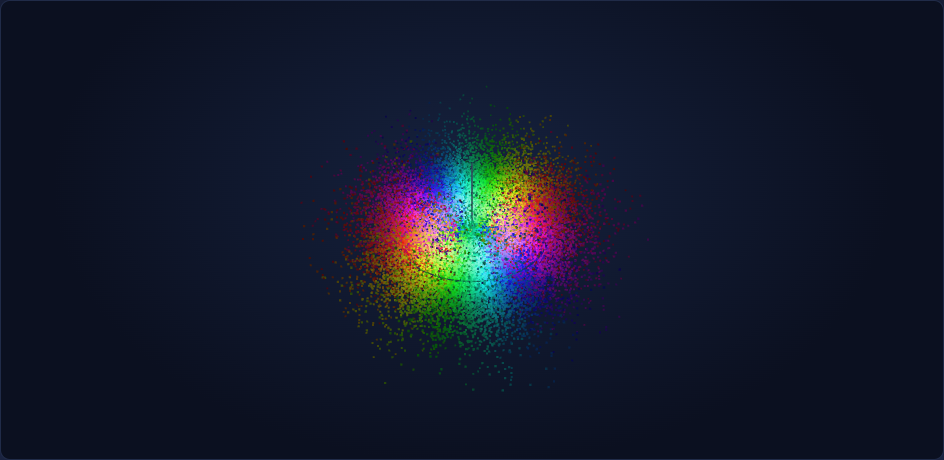
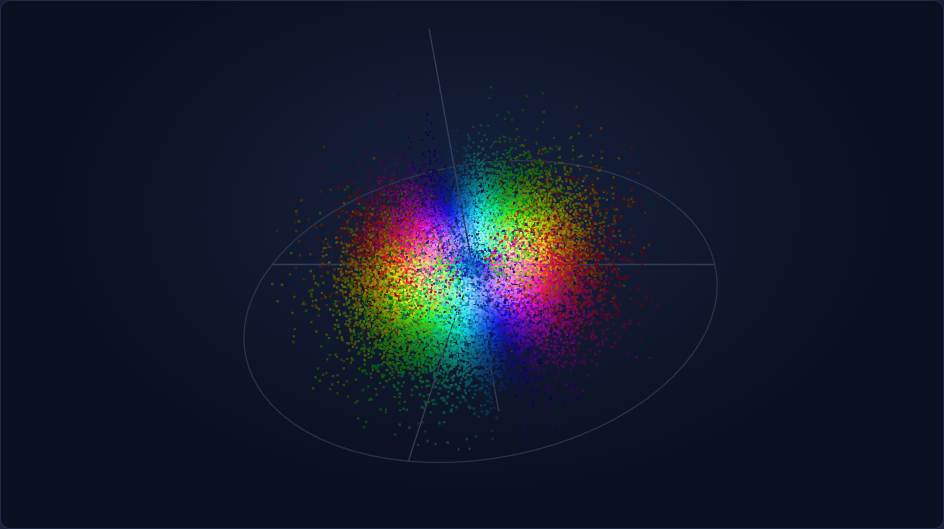
docs: 同步 README 与预览图（判据切换、四元数交互、等值面精度说明）

Changed region(s): [[0.3072, 0.2435, 0.6758, 0.7913]]

diff --git a/H5/README.md b/H5/README.md
@@ -4,10 +4,13 @@
 
 ## ✨ 功能特性
 
-- **量子数控制**：滑块调节主量子数 `n`（1–6）、角量子数 `l`、磁量子数 `m`，实时联动（l 上限随 n、m 范围随 l 自动收窄）。
-- **三维轨道**：按概率密度 `|ψ|²` 实时生成
-  - **粒子云**：按 `|ψ|²` 重要性采样数万个点，统计上即真实电子分布；复模式下按相位着色，直观呈现相位缠绕。
-  - **等值面**：在网格上走四面体行进（marching tetrahedra）提取 `|ψ|² = 常数` 的实体表面，阈值可调；经顶点焊接 + Taubin 平滑 + 一致朝外绕向处理，表面光滑。
+- **量子数控制**：滑块与**数字输入框**双通道调节主量子数 `n`（1–6）、角量子数 `l`、磁量子数 `m`，实时联动（l 上限随 n、m 范围随 l 自动收窄）；输入框会校验类型与范围，非法值标红提示且不改变状态。
+- **三维轨道**：按概率密度 `|ψ|²` 实时生成（**默认等值面**，可切粒子云）
+  - **粒子云**：按 `|ψ|²` 重要性采样数万个点，统计上即真实电子分布。
+  - **等值面**：在网格上走四面体行进（marching tetrahedra）提取等值面，**判据可切换 `|ψ|` / `|ψ|²`**，阈值可调；经顶点焊接 + Taubin 平滑 + 一致朝外绕向处理，表面光滑。
+    > `|ψ| = c` 与 `|ψ|² = c²` 是同一族曲面，故切换判据**改变的是读数的含义而非形状**：同一读数 `f`，按 `|ψ|²` 计为 `f·|ψ|²max`，按 `|ψ|` 计等价于 `f²·|ψ|²max`（`f<1` 时更小）→ 得到**更大**的表面。面板会实时显示两者的换算，如 `30.0% |ψ|² ⟺ 54.8% |ψ|`。
+  - 网格范围随阈值自适应（收紧到等值面实际外延，而非波函数渐近尾部），同分辨率下格距可细数倍——这是分辨 p 轨道节面附近两瓣窄缝的关键。
+  - **三维着色**：粒子云与等值面共用同一套配色 —— **相位色**（实函数 → ±红/青正负瓣，复函数 → 彩虹相位缠绕）/ **轨道色**（按 s/p/d/f 支壳层着色）。
 - **实函数 / 复函数** 双模式：
   - 实球谐 → 经典"瓣状"轨道（pz、px、dxy、dz²…）。
   - 复球谐 → 密度绕 z 轴对称的"环/锥面"，并按相位（arg ψ）彩虹着色。
@@ -16,7 +19,9 @@
   - 角度分布：以 (θ, φ) 为自变量、**自原点沿该方向引射线、长度为 `|Y|` 或 `|Y|²` 的三维曲面**，可拖拽旋转；实函数按符号分色，复函数按相位着色。
   - 截面密度：`xy / xz / yz` 平面，三种模式 —— **密度着色** / **相位着色** / **无填色等高线**（8 层对数间距、数值标注在线上、白线标出节面 ψ=0）；恰为节点面时提示"本平面为节点面"。
 - **公式展示**：KaTeX 实时渲染当前波函数的数学表达式（代入具体 n/l/m 与归一化系数），且 `P_l^m(cosθ)` **展开为显式多项式**（如 `P_1^1 = -sinθ`）。
-- **交互**：拖拽旋转、滚轮/双指缩放、自动旋转、复位；桌面 / 平板 / 手机响应式自适配。
+- **交互**：拖拽旋转、滚轮/双指缩放、右键（或 Shift+拖）平移、自动旋转、复位；桌面 / 平板 / 手机响应式自适配。
+  - 旋转由**自研四元数轨道控制器**驱动：偏航绕**相机自身 Y（屏幕竖直）**、俯仰绕**相机自身 X（屏幕水平）**，均为相机局部系四元数相乘，不经过欧拉角，**从原理上避免万向节锁**，且允许自由翻滚（无极点限位）。
+    > 偏航刻意**不用世界 Z 轴**：若用世界 Z，当视线俯到极点附近时世界 Z 与视线重合，"左右拖"会退化成绕视线的滚转，用户会感觉方向反了；改用局部 Y 后，任何朝向下左右拖都绕屏幕竖直轴转，方向始终一致。
 
 ## 🚀 如何运行
 
@@ -41,7 +46,6 @@ H5/
 ├── README.md
 ├── libs/               # 本地化依赖（离线必需）
 │   ├── three.min.js         # Three.js r147 全局构建
-│   ├── OrbitControls.js     # r147 非模块控制器
 │   ├── katex.min.css/js     # 公式渲染
 │   └── fonts/               # KaTeX woff2 字库
 ├── css/
@@ -67,7 +71,8 @@ H5/
 | 决策 | 原因 |
 |---|---|
 | 纯 JS 手写数学（弃 NumPy/Pyodide） | 移动端秒开；波函数所需数学仅需少量递推，精确且轻量 |
-| Three.js r147 全局构建 | r148 起非模块 OrbitControls 被移除；全局构建可在 `file://` 双击运行（ES Module 在 file:// 有 CORS 限制） |
+| Three.js r147 全局构建 | r148 起非模块 `OrbitControls` 被移除，且新版为 ES Module（`file://` 下被 CORS 拦截）；全局构建可双击离线运行 |
+| **自研四元数轨道控制器**（不用 `OrbitControls`） | `OrbitControls` 用球坐标 + up 向量描述朝向，视线与 up 平行时存在万向节锁；改为四元数累积旋转（偏航绕世界 Z、俯仰绕相机局部 X），全程不经欧拉角，无奇异点，另加 ±Z 极点软限位防止翻过头 |
 | 等值面用 marching **tetrahedra**（非 cubes） | 免去 256×16 巨型查找表，规则简单、必定正确；三角形略多，用较高网格分辨率补偿 |
 | 2D 图表手绘 Canvas | 三种图表形态各异，手绘控制力强、零依赖、与暗色主题统一 |
 

diff --git a/README.md b/README.md
@@ -17,14 +17,20 @@
 
 ## ✨ 功能特性
 
-**量子数实时联动**：滑块调节主量子数 `n`（1–6）、角量子数 `l`、磁量子数 `m`，`l` 上限随 `n`、`m` 范围随 `l` 自动收窄。
+**量子数实时联动**：滑块与**数字输入框**双通道调节主量子数 `n`（1–6）、角量子数 `l`、磁量子数 `m`，`l` 上限随 `n`、`m` 范围随 `l` 自动收窄；输入框校验类型与范围，非法值标红且不改变状态。
 
-**三维轨道渲染** — 按概率密度 `|ψ|²` 实时生成，两种方式可切换：
+**三维轨道渲染** — 按概率密度 `|ψ|²` 实时生成（**默认等值面**，可切粒子云）：
 
 | 方式 | 说明 |
 |---|---|
 | **粒子云** | 按 `|ψ|²` 重要性采样数万个点，统计上即真实电子分布 |
-| **等值面** | 在网格上以*四面体行进*提取 `|ψ|² = 常数` 的实体表面，阈值可调 |
+| **等值面** | 在网格上以*四面体行进*提取等值面，**判据可切换 `\|ψ\|` / `\|ψ\|²`**，阈值可调 |
+
+> **关于 `|ψ|` 与 `|ψ|²`**：`|ψ| = c` 与 `|ψ|² = c²` 是同一族曲面，故切换判据改变的是**读数的含义**而非形状——同一读数 `f`，按 `|ψ|²` 计为 `f·|ψ|²max`，按 `|ψ|` 计等价于 `f²·|ψ|²max`（`f<1` 时更小），因而得到**更大**的表面。面板实时显示换算，如 `30.0% |ψ|² ⟺ 54.8% |ψ|`。
+
+两者共用同一套**三维着色**：**相位色**（实函数 → ±红/青正负瓣，复函数 → 彩虹相位）或**轨道色**（按 s/p/d/f 支壳层着色）。
+
+**交互**：拖拽旋转、滚轮/双指缩放、右键（或 Shift+拖）平移、自动旋转、复位。旋转由**自研四元数轨道控制器**驱动——偏航绕**相机自身 Y（屏幕竖直）**、俯仰绕**相机自身 X（屏幕水平）**，全程四元数相乘、相机局部系累积，不经欧拉角，**原理上避免万向节锁**且支持自由翻滚。
 
 <p align="center">
   <img src="docs/isosurface.png" alt="3d_{z^2} 等值面" width="620">
@@ -78,7 +84,6 @@ atom-orbit/
     ├── README.md           # 应用详细文档
     ├── libs/               # 本地化依赖（离线必需）
     │   ├── three.min.js        # Three.js r147 全局构建
-    │   ├── OrbitControls.js    # r147 非模块控制器
     │   ├── katex.min.css/js    # 公式渲染
     │   └── fonts/              # KaTeX woff2 字库
     ├── css/
@@ -104,7 +109,8 @@ atom-orbit/
 | 决策 | 原因 |
 |---|---|
 | 纯 JS 手写数学（弃 NumPy / Pyodide） | 移动端秒开；所需数学仅需少量递推即可精确实现，无需 ~15MB 的 WASM 运行时 |
-| Three.js **r147 全局构建** | r148 起非模块 `OrbitControls` 被移除；全局构建可在 `file://` 双击运行（ES Module 在 `file://` 下会被 CORS 拦截） |
+| Three.js **r147 全局构建** | r148 起非模块 `OrbitControls` 被移除，且新版为 ES Module（`file://` 下被 CORS 拦截）；全局构建可双击离线运行 |
+| **自研四元数轨道控制器**（不用 `OrbitControls`） | 球坐标 + up 向量在视线与 up 平行时存在万向节锁；改为相机局部系四元数累积（偏航绕相机自身 Y=屏幕竖直、俯仰绕相机自身 X=屏幕水平），全程不经欧拉角、无奇异点，支持自由翻滚 |
 | 等值面用 marching **tetrahedra**（非 cubes） | 免去 256×16 巨型查找表，规则简单、必定正确；配合顶点焊接 + Taubin 平滑 + 一致绕向保证表面光滑 |
 | 2D 图表手绘 Canvas | 三种图表形态各异，手绘控制力强、零额外依赖、与暗色主题统一 |
 
